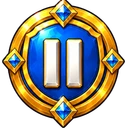
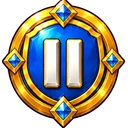
art: カードの状態アイコン（ブロッカー・結界・ステルス・遅延・毒・封印・攻撃不能）を ChatGPT 製の絵に

diff --git a/src/ui/CardFace.tsx b/src/ui/CardFace.tsx
@@ -60,16 +60,7 @@ function CardFaceView({
       </div>
       {blocker ? (
         <span className="blocker-badge" aria-label="ブロッカー" title="ブロッカー">
-          <svg viewBox="0 0 24 28" aria-hidden="true">
-            <path d="M12 1.5 L22 5 V13 C22 19.5 17.5 24.5 12 26.5 C6.5 24.5 2 19.5 2 13 V5 Z" fill="url(#bb-grad)" stroke="#fff" strokeWidth="1.6" strokeLinejoin="round" />
-            <path d="M12 5.5 V22 M6 11 H18" stroke="#fff" strokeWidth="2.2" strokeLinecap="round" opacity="0.9" />
-            <defs>
-              <linearGradient id="bb-grad" x1="0" y1="0" x2="1" y2="1">
-                <stop offset="0" stopColor="#7fc0ff" />
-                <stop offset="1" stopColor="#1f5fc4" />
-              </linearGradient>
-            </defs>
-          </svg>
+          <img src={STATE_ICON.blocker} alt="" draggable={false} />
         </span>
       ) : null}
       {states.length > 0 ? (
@@ -120,66 +111,29 @@ export const CardFace = memo(CardFaceView, (a: CardFaceProps, b: CardFaceProps) 
   return x.length === y.length && x.every((v, i) => v === y[i]);
 });
 
+/** 状態のアイコン（ChatGPT で作成。scripts/slice-icons.mjs の states-sheet）。 */
 function StateIcon({ state }: { state: CardState }) {
-  if (state === 'blocker') {
-    return (
-      <svg viewBox="0 0 24 24" aria-hidden="true">
-        <path d="M12 3 L19.5 5.8 V11.5 C19.5 16.2 16.3 19.5 12 21 C7.7 19.5 4.5 16.2 4.5 11.5 V5.8 Z" fill="#fff" />
-      </svg>
-    );
-  }
-  if (state === 'barrier') {
-    return (
-      <svg viewBox="0 0 24 24" aria-hidden="true">
-        <circle cx="12" cy="12" r="8" fill="none" stroke="#fff" strokeWidth="2.6" />
-        <path d="M8.5 10.5 A4 4 0 0 1 12 8" fill="none" stroke="#fff" strokeWidth="2.2" strokeLinecap="round" />
-      </svg>
-    );
-  }
-  if (state === 'stealth') {
-    return (
-      <svg viewBox="0 0 24 24" aria-hidden="true">
-        <path d="M2.5 12 C5.5 7 9 5.5 12 5.5 C15 5.5 18.5 7 21.5 12 C18.5 17 15 18.5 12 18.5 C9 18.5 5.5 17 2.5 12 Z" fill="none" stroke="#fff" strokeWidth="2.2" />
-        <circle cx="12" cy="12" r="2.8" fill="#fff" />
-        <path d="M4 20 L20 4" stroke="#fff" strokeWidth="2.6" strokeLinecap="round" />
-      </svg>
-    );
-  }
-  if (state === 'seal') {
-    return (
-      <svg viewBox="0 0 24 24" aria-hidden="true">
-        <circle cx="12" cy="12" r="8" fill="none" stroke="#fff" strokeWidth="2.4" />
-        <path d="M6.5 6.5 L17.5 17.5" stroke="#fff" strokeWidth="2.6" strokeLinecap="round" />
-      </svg>
-    );
-  }
-  if (state === 'poison') {
-    return (
-      <svg viewBox="0 0 24 24" aria-hidden="true">
-        <path d="M12 3 C12 3 5 11 5 15 A7 7 0 0 0 19 15 C19 11 12 3 12 3 Z" fill="#fff" />
-        <circle cx="9.5" cy="15.5" r="1.6" fill="#7a2fb0" />
-        <circle cx="14.5" cy="15.5" r="1.6" fill="#7a2fb0" />
-      </svg>
-    );
-  }
-  if (state === 'disarm') {
-    return (
-      <svg viewBox="0 0 24 24" aria-hidden="true">
-        <path d="M5 19 L16 8 M14 6 L18 10" stroke="#fff" strokeWidth="2.6" strokeLinecap="round" />
-        <path d="M4 4 L20 20" stroke="#fff" strokeWidth="2.6" strokeLinecap="round" />
-      </svg>
-    );
-  }
-  return (
-    <svg viewBox="0 0 24 24" aria-hidden="true">
-      <rect x="3" y="9" width="8" height="6" rx="3" fill="none" stroke="#fff" strokeWidth="2.4" />
-      <rect x="13" y="9" width="8" height="6" rx="3" fill="none" stroke="#fff" strokeWidth="2.4" />
-      <path d="M9 12 H15" stroke="#fff" strokeWidth="2.4" />
-    </svg>
-  );
+  return <img src={STATE_ICON[state]} alt="" draggable={false} />;
 }
 
+import stateBarrierUrl from '../assets/art/ui/state-barrier.webp';
+import stateBlockerUrl from '../assets/art/ui/state-blocker.webp';
+import stateDisarmUrl from '../assets/art/ui/state-disarm.webp';
+import statePoisonUrl from '../assets/art/ui/state-poison.webp';
+import stateSealUrl from '../assets/art/ui/state-seal.webp';
+import stateStealthUrl from '../assets/art/ui/state-stealth.webp';
+import stateStunUrl from '../assets/art/ui/state-stun.webp';
 import coinUrl from '../assets/art/ui/pip-coin.webp';
+
+const STATE_ICON: Record<CardState, string> = {
+  blocker: stateBlockerUrl,
+  barrier: stateBarrierUrl,
+  stealth: stateStealthUrl,
+  stun: stateStunUrl,
+  seal: stateSealUrl,
+  poison: statePoisonUrl,
+  disarm: stateDisarmUrl,
+};
 import atkUrl from '../assets/art/ui/pip-atk.webp';
 import hpUrl from '../assets/art/ui/pip-hp.webp';
 import cdUrl from '../assets/art/ui/pip-cd.webp';

diff --git a/src/ui/polish.css b/src/ui/polish.css
@@ -3106,3 +3106,22 @@ img.result-star.is-lit {
   height: 44px;
   filter: drop-shadow(0 2px 2px rgb(0 0 0 / 0.5));
 }
+
+/* 状態とブロッカーのアイコンは ChatGPT 製の絵（地の丸・縁は不要） */
+.state:has(img) {
+  background: none;
+  border: 0;
+}
+
+.state img {
+  width: 100%;
+  height: 100%;
+  object-fit: contain;
+  filter: drop-shadow(0 1px 1px rgb(0 0 0 / 0.6));
+}
+
+.blocker-badge img {
+  display: block;
+  width: 100%;
+  filter: drop-shadow(0 1px 2px rgb(0 0 0 / 0.6));
+}
